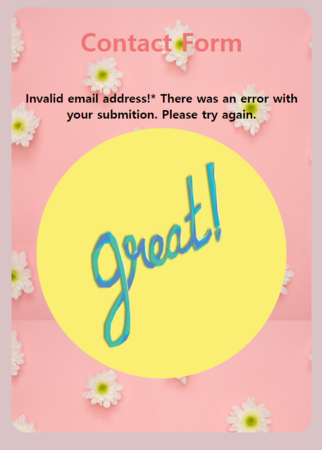
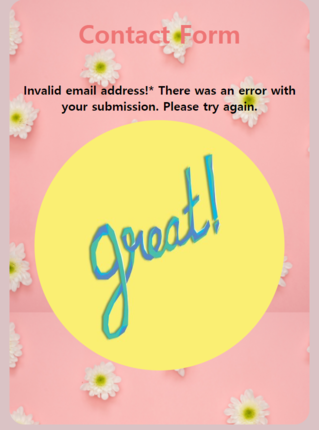
fix the type

diff --git a/index.php b/index.php
@@ -5,7 +5,7 @@ $respond_message = "";
 $mobileregex = "/^(\+44\s?7\d{3}|\(?07\d{3}\)?)\s?\d{3}\s?\d{3}$/";
 
 $success_message = "Thanks, $name!\nYour message was submitted successfully!";
-$error_message = "* There was an error with your submition. Please try again.";
+$error_message = "* There was an error with your submission. Please try again.";
 
 if($_SERVER["REQUEST_METHOD"] == "POST") {
  
